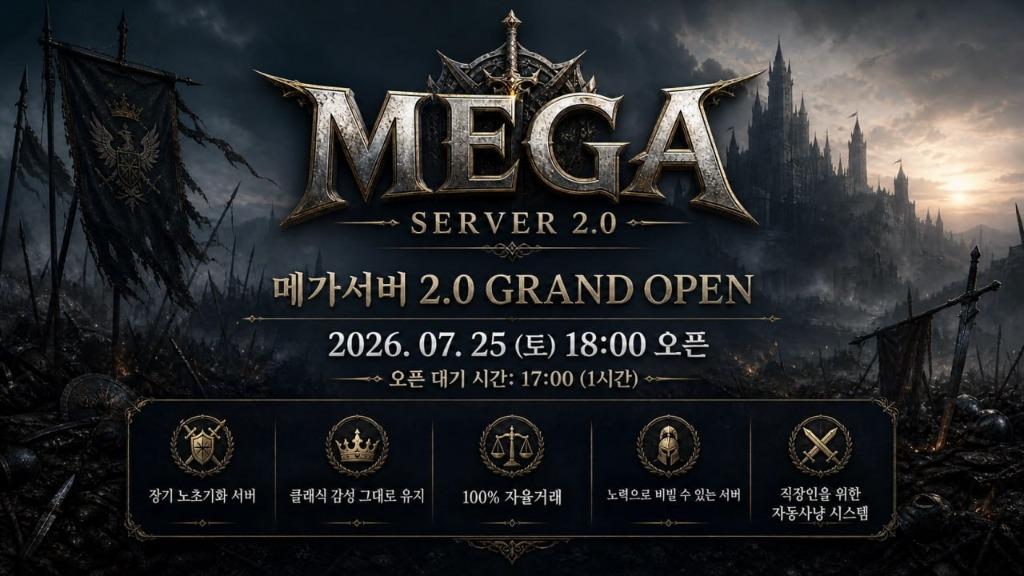
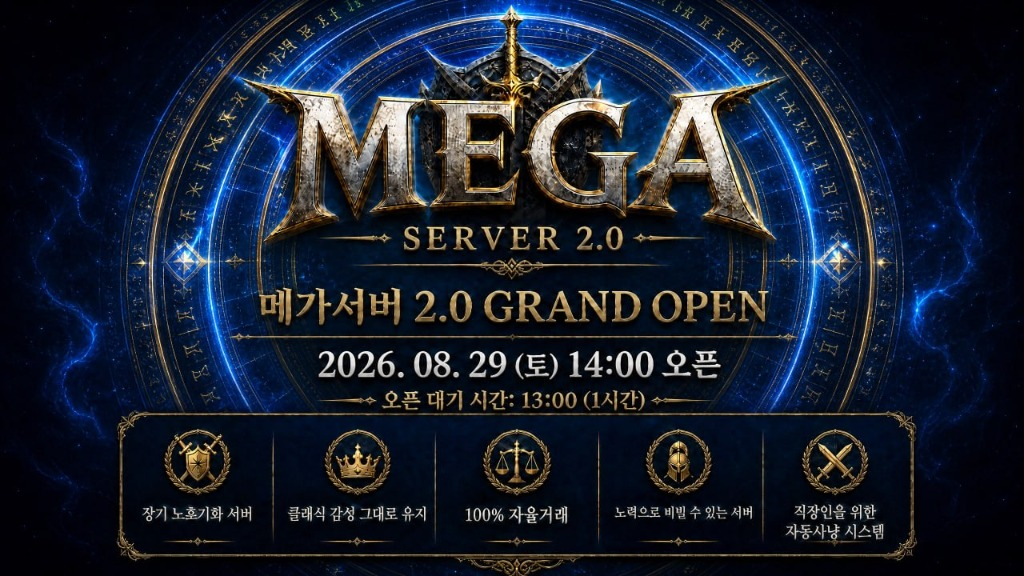
메인 배너 이미지 교체 및 오픈 공지 수정 (8/29 토 14시)

diff --git a/home.html b/home.html
@@ -131,14 +131,14 @@ body {
     <div class="close-btn" onclick="closePopup()">✖</div>
     <h2 style="font-size: 22px; margin-bottom: 5px;">📢 2.0 메가 서버 공지 📢</h2>
     <p style="text-align:center; color:#4da6ff; font-size:16px; font-weight:bold; margin-top:5px; margin-bottom: 15px; text-shadow: 0 0 10px rgba(77, 166, 255, 0.4);">
-        📢 7월 25일 18시 오픈 (17시 오픈 대기 1시간) 📢
+        📢 8월 29일(토) 14시 오픈 (13시 오픈 대기 1시간) 📢
     </p>
     <hr style="border:0; border-top:1px solid rgba(51, 163, 255,0.3); margin:15px 0;">
     <div style="line-height:2.2; font-size:15px; color:#ddd; padding:0 10px;">
         <div style="margin-bottom: 8px;"><span style="color:#4da6ff; font-weight:bold; margin-right:8px;">✔</span> 장기 노초기화 서버</div>
         <div style="margin-bottom: 8px;"><span style="color:#4da6ff; font-weight:bold; margin-right:8px;">✔</span> 클래식 감성 그대로 유지</div>
         <div style="margin-bottom: 8px;"><span style="color:#4da6ff; font-weight:bold; margin-right:8px;">✔</span> 100% 자율거래</div>
-        <div style="margin-bottom: 8px;"><span style="color:#4da6ff; font-weight:bold; margin-right:8px;">✔</span> 아데나만으로 풀장비 가능 <span style="font-size: 13px; color: #a3d2ff;">(소소한 후원 시스템)</span></div>
+        <div style="margin-bottom: 8px;"><span style="color:#4da6ff; font-weight:bold; margin-right:8px;">✔</span> 노력으로 비빌 수 있는 서버</div>
         <div style="margin-bottom: 8px;"><span style="color:#4da6ff; font-weight:bold; margin-right:8px;">✔</span> 직장인을 위한 자동사냥 시스템</div>
     </div>
 </div>
